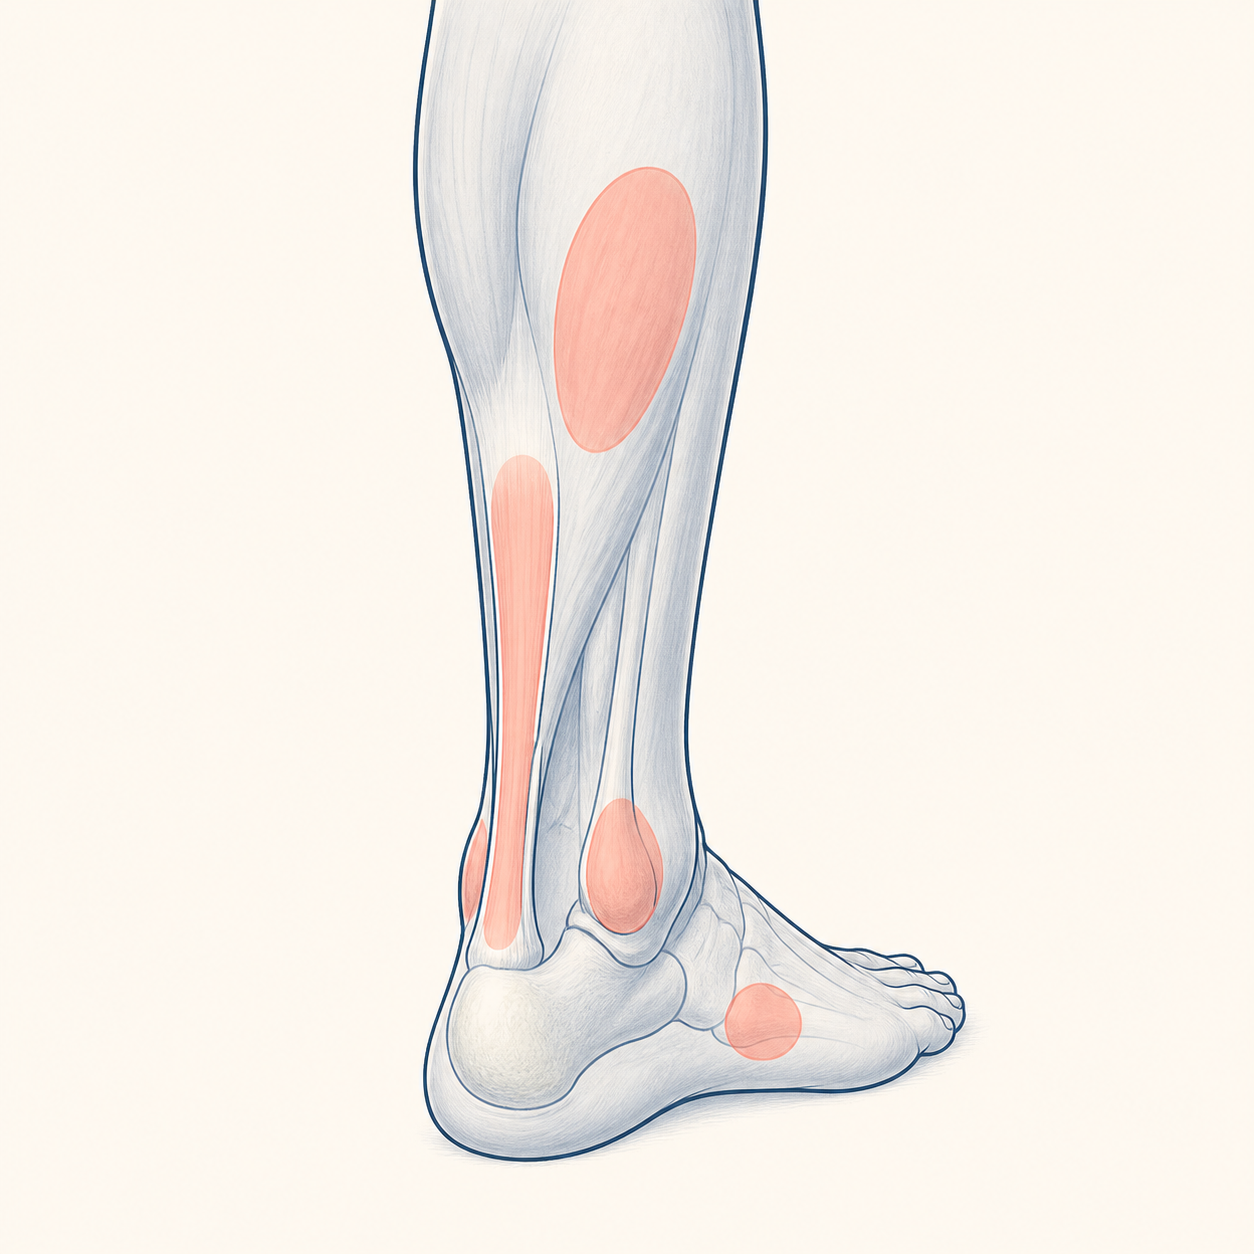
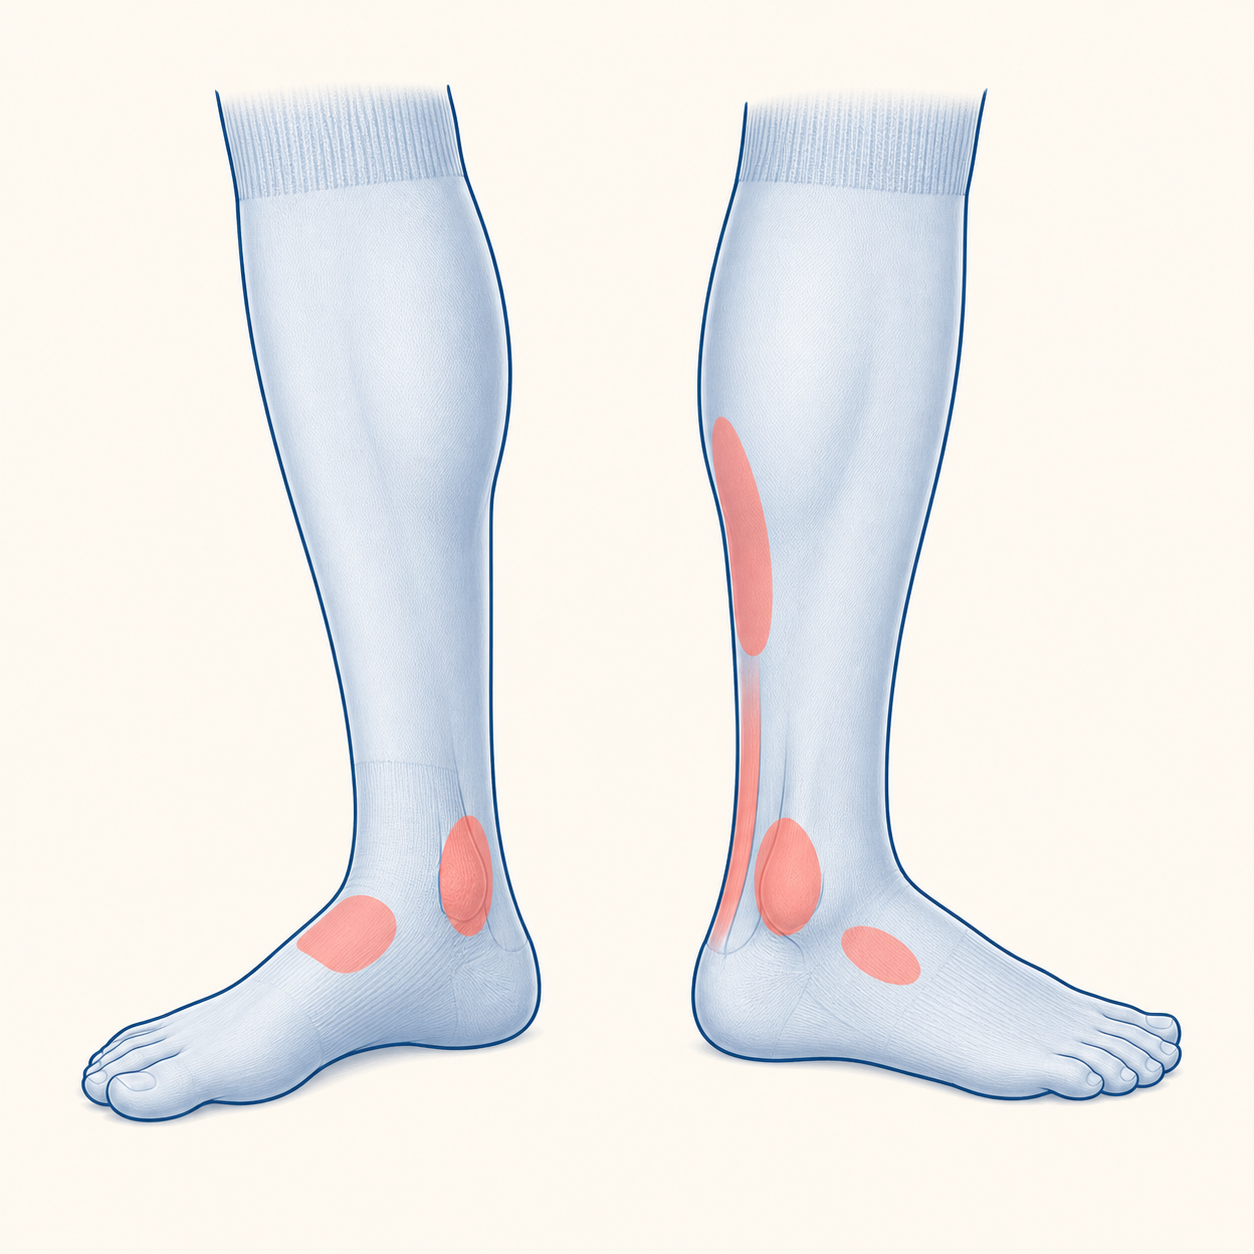
fix: 校准肩踝局部热点

diff --git a/src/bodyRegionMap.js b/src/bodyRegionMap.js
@@ -56,34 +56,56 @@ export const bodySlugTargets = Object.freeze(
   ),
 );
 
+// 坐标由最终 PNG 的 0–100% 画布手动标定；替换图片时须先目检并同步更新此处和锁定测试。
+export const jointDiagramMetadata = Object.freeze({
+  knee: Object.freeze({ coordinateSystem: "image-percent", calibrationNote: "单视图膝周轮廓上的人工标定。" }),
+  shoulder: Object.freeze({ coordinateSystem: "image-percent", calibrationNote: "前侧与背侧双视图上的人工标定；前侧点只落在前侧视图，肩胛点只落在背侧视图。" }),
+  ankle: Object.freeze({ coordinateSystem: "image-percent", calibrationNote: "内侧与外侧双视图上的人工标定；内外踝分别落在对应视图。" }),
+});
+
 export const jointDiagramZones = Object.freeze({
   knee: Object.freeze([
-    { id: "knee-front", label: "膝盖正前方", x: 63, y: 46, sideLabel: "前" },
-    { id: "knee-medial", label: "膝盖内侧", x: 51, y: 49, sideLabel: "内" },
-    { id: "knee-lateral", label: "膝盖外侧", x: 39, y: 48, sideLabel: "外" },
-    { id: "knee-posterior", label: "膝盖后方", x: 43, y: 44, sideLabel: "后" },
-    { id: "quadriceps-area", label: "大腿前侧", x: 64, y: 27, sideLabel: "上" },
-    { id: "hamstring-area", label: "大腿后侧", x: 39, y: 28, sideLabel: "上" },
-    { id: "upper-calf-area", label: "小腿上端", x: 42, y: 72, sideLabel: "下" },
-    { id: "knee-joint-unsure", label: "不确定具体位置", x: 54, y: 57 },
+    { id: "knee-front", marker: "1", label: "膝盖正前方", x: 63, y: 46, sideLabel: "前", view: "single" },
+    { id: "knee-medial", marker: "2", label: "膝盖内侧", x: 51, y: 49, sideLabel: "内", view: "single" },
+    { id: "knee-lateral", marker: "3", label: "膝盖外侧", x: 39, y: 48, sideLabel: "外", view: "single" },
+    { id: "knee-posterior", marker: "4", label: "膝盖后方", x: 43, y: 44, sideLabel: "后", view: "single" },
+    { id: "quadriceps-area", marker: "5", label: "大腿前侧", x: 64, y: 27, sideLabel: "上", view: "single" },
+    { id: "hamstring-area", marker: "6", label: "大腿后侧", x: 39, y: 28, sideLabel: "上", view: "single" },
+    { id: "upper-calf-area", marker: "7", label: "小腿上端", x: 42, y: 72, sideLabel: "下", view: "single" },
+    { id: "knee-joint-unsure", marker: "8", label: "不确定具体位置", x: 54, y: 57, view: "single" },
   ]),
   shoulder: Object.freeze([
-    { id: "shoulder-front", label: "肩膀前侧", x: 43, y: 47, sideLabel: "前" },
-    { id: "shoulder-lateral", label: "肩膀外侧", x: 29, y: 52, sideLabel: "外" },
-    { id: "shoulder-posterior", label: "肩膀后侧", x: 29, y: 38, sideLabel: "后" },
-    { id: "scapula-medial", label: "肩胛骨内侧", x: 48, y: 46, sideLabel: "内" },
-    { id: "scapula-inferior", label: "肩胛骨下方", x: 53, y: 61, sideLabel: "下" },
-    { id: "shoulder-joint-unsure", label: "不确定具体位置", x: 58, y: 30 },
+    { id: "shoulder-front", marker: "1", label: "肩膀前侧", x: 40, y: 42, sideLabel: "前", view: "front" },
+    { id: "shoulder-lateral", marker: "2", label: "肩膀外侧", x: 44, y: 50, sideLabel: "外", view: "front" },
+    { id: "shoulder-posterior", marker: "3", label: "肩膀后侧", x: 87, y: 42, sideLabel: "后", view: "back" },
+    { id: "scapula-medial", marker: "4", label: "肩胛骨内侧", x: 75, y: 43, sideLabel: "内", view: "back" },
+    { id: "scapula-inferior", marker: "5", label: "肩胛骨下方", x: 78, y: 57, sideLabel: "下", view: "back" },
+    { id: "shoulder-joint-unsure", marker: "6", label: "不确定具体位置", x: 65, y: 63, view: "back" },
   ]),
   ankle: Object.freeze([
-    { id: "ankle-front", label: "踝关节前方", x: 53, y: 67, sideLabel: "前" },
-    { id: "ankle-medial", label: "内踝", x: 39, y: 68, sideLabel: "内" },
-    { id: "ankle-lateral", label: "外踝", x: 49, y: 69, sideLabel: "外" },
-    { id: "achilles-area", label: "跟腱附近", x: 41, y: 51, sideLabel: "后" },
-    { id: "calf-posterior", label: "小腿后侧", x: 49, y: 25, sideLabel: "后" },
-    { id: "ankle-joint-unsure", label: "不确定具体位置", x: 59, y: 81 },
+    { id: "ankle-front", marker: "1", label: "踝关节前方", x: 29, y: 73, sideLabel: "前", view: "medial" },
+    { id: "ankle-medial", marker: "2", label: "内踝", x: 37, y: 70, sideLabel: "内", view: "medial" },
+    { id: "ankle-lateral", marker: "3", label: "外踝", x: 62, y: 70, sideLabel: "外", view: "lateral" },
+    { id: "achilles-area", marker: "4", label: "跟腱附近", x: 59, y: 63, sideLabel: "后", view: "lateral" },
+    { id: "calf-posterior", marker: "5", label: "小腿后侧", x: 60, y: 45, sideLabel: "后", view: "lateral" },
+    { id: "ankle-joint-unsure", marker: "6", label: "不确定具体位置", x: 70, y: 76, view: "lateral" },
   ]),
 });
+
+export function getJointZoneControlData(regionId, selectedIds = []) {
+  return (jointDiagramZones[regionId] ?? []).map(({ id, marker, label, x, y, sideLabel }) => {
+    const selected = selectedIds.includes(id);
+    return {
+      id,
+      marker,
+      label,
+      ariaLabel: [label, sideLabel && `${sideLabel}侧`, selected ? "已选" : "未选"].filter(Boolean).join("，"),
+      selected,
+      x,
+      y,
+    };
+  });
+}
 
 export function getTargetForBodySlug(slug, regionId) {
   return primaryTargetsBySlugRegion[slug]?.[regionId];

diff --git a/src/components/JointRegionMap.jsx b/src/components/JointRegionMap.jsx
@@ -1,4 +1,4 @@
-import { jointDiagramZones } from "../bodyRegionMap.js";
+import { getJointZoneControlData } from "../bodyRegionMap.js";
 
 const diagramAssets = {
   knee: "assets/body-map/knee-location-map.png",
@@ -7,7 +7,7 @@ const diagramAssets = {
 };
 
 export function JointRegionMap({ regionId, selectedIds = [], onToggleTarget }) {
-  const zones = jointDiagramZones[regionId];
+  const zones = getJointZoneControlData(regionId, selectedIds);
   const assetPath = diagramAssets[regionId];
 
   if (!zones || !assetPath) return null;
@@ -21,30 +21,42 @@ export function JointRegionMap({ regionId, selectedIds = [], onToggleTarget }) {
           alt="局部身体轮廓图；可使用图上的位置按钮标记不适处。"
           style={{ display: "block", width: "100%", height: "100%", objectFit: "contain" }}
         />
-        {zones.map((zone) => {
-          const selected = selectedIds.includes(zone.id);
-          return (
-            <button
-              key={zone.id}
-              type="button"
-              className={`joint-region-map__zone${selected ? " is-selected" : ""}`}
-              aria-label={`${zone.label}${zone.sideLabel ? `，${zone.sideLabel}侧` : ""}${selected ? "，已选" : "，未选"}`}
-              aria-pressed={selected}
-              onClick={() => onToggleTarget(zone.id)}
-              style={{
-                position: "absolute",
-                left: `${zone.x}%`,
-                top: `${zone.y}%`,
-                transform: "translate(-50%, -50%)",
-                minWidth: "44px",
-                minHeight: "44px",
-              }}
-            >
-              <span>{zone.label}</span>
-              {zone.sideLabel && <small>{zone.sideLabel}</small>}
-            </button>
-          );
-        })}
+        {zones.map((zone) => (
+          <button
+            key={zone.id}
+            type="button"
+            className={`joint-region-map__marker${zone.selected ? " is-selected" : ""}`}
+            aria-label={zone.ariaLabel}
+            aria-pressed={zone.selected}
+            onClick={() => onToggleTarget(zone.id)}
+            style={{
+              position: "absolute",
+              left: `${zone.x}%`,
+              top: `${zone.y}%`,
+              transform: "translate(-50%, -50%)",
+              width: "44px",
+              height: "44px",
+              borderRadius: "50%",
+              padding: 0,
+            }}
+          >
+            <span aria-hidden="true">{zone.marker}</span>
+          </button>
+        ))}
+      </div>
+      <div className="joint-region-map__list" role="group" aria-label="位置列表">
+        {zones.map((zone) => (
+          <button
+            key={zone.id}
+            type="button"
+            className={`joint-region-map__list-item${zone.selected ? " is-selected" : ""}`}
+            aria-label={zone.ariaLabel}
+            aria-pressed={zone.selected}
+            onClick={() => onToggleTarget(zone.id)}
+          >
+            <span aria-hidden="true">{zone.marker}</span>{zone.label}
+          </button>
+        ))}
       </div>
     </section>
   );
